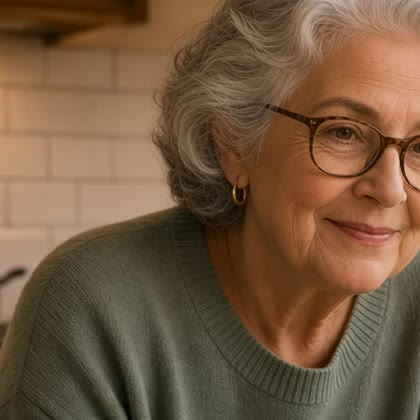
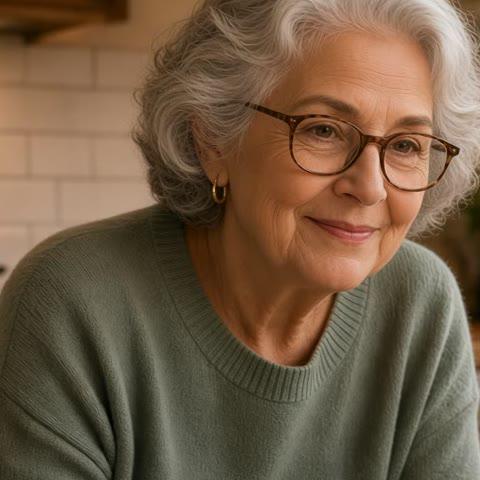
Put grandma back in the corner and keep her whole head in the picture.

diff --git a/php/static/css/app.css b/php/static/css/app.css
@@ -212,9 +212,8 @@ img { max-width: 100%; height: auto; }
 }
 .hero-video-cue {
   position: absolute;
-  left: 50%;
-  top: 50%;
-  transform: translate(-50%, -50%);
+  left: 12px;
+  top: 12px;
   z-index: 1;
 }
 .hero-video-who {
@@ -223,7 +222,7 @@ img { max-width: 100%; height: auto; }
   flex: 0 0 88px;
   border-radius: 50%;
   object-fit: cover;
-  object-position: 42% 18%;
+  object-position: center 18%;
   border: 3px solid #fff;
   box-shadow: 0 8px 20px rgba(16, 22, 22, 0.28);
   background: #d7cfc4;

diff --git a/php/src/Db.php b/php/src/Db.php
@@ -6,7 +6,7 @@ final class Db
     public const DEMO_EMAIL = 'family@ourcircle.app';
     public const DEMO_NAME = 'Pat Foster';
     public const DEMO_PASSWORD = 'password123';
-    public const VERSION = '1.3.37';
+    public const VERSION = '1.3.38';
     public const RESET_NOTICE = 'If that email is on file, a one-hour reset link is on the way. When mail is not connected, the link is saved as password-reset.txt next to the database (blocked from the web).';
 
     private static ?string $path = null;
